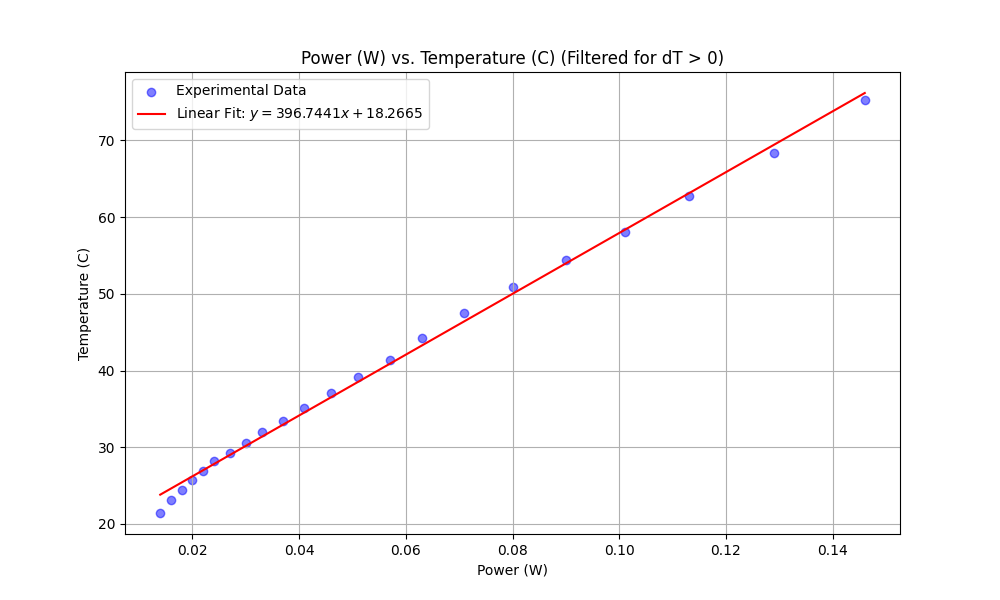
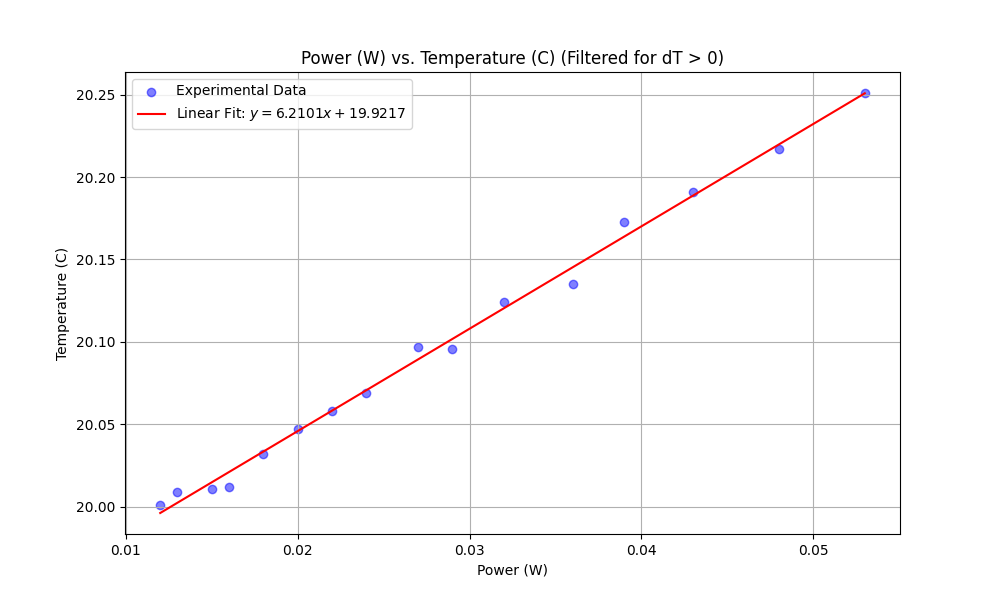
fahhhhhhhh

diff --git a/functions_test_alpha.py b/functions_test_alpha.py
@@ -30,14 +30,14 @@ def config_2wire_resistance_mode(instrument, vlimit):
     print("TSP: 2-Wire Source Configured.")
 
 def config_4wire_resistance_mode(instrument, vlimit):
-    """Sets up 4-wire sense for current sourcing."""
-    # Set to Current Source
+    instrument.write("reset()")
     instrument.write("smu.source.func = smu.FUNC_DC_CURRENT")
-    # Set to 4-Wire Sense
-    instrument.write("smu.measure.sense = smu.SENSE_4WIRE")
-    # Set Current Limit (Compliance)
     instrument.write(f"smu.source.vlimit.level = {vlimit}")
-    print("TSP: 4-Wire Source Configured.")
+    instrument.write("smu.measure.func = smu.FUNC_DC_VOLTAGE")
+    instrument.write("smu.measure.sense = smu.SENSE_4WIRE")
+    instrument.write("smu.measure.autorange = smu.ON")
+    instrument.write("smu.measure.nplc = 1")
+    instrument.write("smu.source.delay = 0.1")
 
 def get_TCR(thickness):
     """Finds TCR based on thin film thickness in nm"""
@@ -85,11 +85,6 @@ def measure_resistance_4wire(instrument, current_level):
     
     # 2. Set measurement function to Voltage
     instrument.write("smu.measure.func = smu.FUNC_DC_VOLTAGE")
-
-    # --- NEW: Enable 4-Wire (Remote) Sensing ---
-    # This tells the SMU to use the 'Sense' terminals instead of the 'Input' terminals
-    instrument.write("smu.measure.sense = smu.SENSE_REMOTE")
-    # -------------------------------------------
     
     # 3. Turn on the output
     instrument.write("smu.source.output = smu.ON")

diff --git a/misc_testing.py b/misc_testing.py
@@ -1,8 +1,9 @@
-import functions_test_alpha as f
+import functions_test as f
 import functions_analysis as g
 import sys
 import time
 import json
+import threading
 from pathlib import Path
 
 # Initialization Inputs
@@ -15,6 +16,16 @@ c_limit = 2 # Amps
 v_limit = 10 # Volts
 #f.get_TCR(film_thickness) # TCR in K^-1
 
+# Threading
+stop = False
+
+def wait_for_enter():
+    global stop
+    input("Press Enter to stop...\n")
+    stop = True
+
+# Start the input listener in a separate thread
+threading.Thread(target=wait_for_enter, daemon=True).start()
 
 # --- Setup Connection ---
 resource_id = 'USB0::0x05E6::0x2450::04419551::INSTR'
@@ -22,10 +33,21 @@ smu, rm = f.initialize_smu(resource_id)
 
 # Configure for Current Sourcing and 4-Wire Resistance
 # Note: Ensure your library has a function for smu.FUNC_DC_CURRENT
-f.config_2wire_resistance_mode(smu, v_limit) 
+f.config_4wire_resistance_mode(smu, v_limit) 
 
-r_chuck = f.measure_resistance_2wire(smu, 1e-2) 
+r_chuck = f.measure_resistance_4wire(smu, .005) 
 print(f"R_chuck: {r_chuck:.4f} Ω")
+
+r_list = []
+t_list = []
+
+start_time = time.time()
+
+while not stop:
+    elapsed = time.time() - start_time
+
+    r_list.append(f.measure_resistance_4wire(smu, 1))
+    t_list.append(elapsed)
 
 # Safety: Always turn off output and close connection
 smu.write("smu.source.output = smu.OFF")

diff --git a/functions_test.py b/functions_test.py
@@ -36,14 +36,14 @@ def config_2wire_resistance_mode(instrument, vlimit):
     print("TSP: 2-Wire Source Configured.")
 
 def config_4wire_resistance_mode(instrument, vlimit):
-    """Sets up 4-wire sense for current sourcing."""
-    # Set to Current Source
+    instrument.write("reset()")
     instrument.write("smu.source.func = smu.FUNC_DC_CURRENT")
-    # Set to 4-Wire Sense
-    instrument.write("smu.measure.sense = smu.SENSE_4WIRE")
-    # Set Current Limit (Compliance)
     instrument.write(f"smu.source.vlimit.level = {vlimit}")
-    print("TSP: 4-Wire Source Configured.")
+    instrument.write("smu.measure.func = smu.FUNC_DC_VOLTAGE")
+    instrument.write("smu.measure.sense = smu.SENSE_4WIRE")
+    instrument.write("smu.measure.autorange = smu.ON")
+    instrument.write("smu.measure.nplc = 1")
+    instrument.write("smu.source.delay = 0.1")
 
 def get_TCR(thickness):
     """Finds TCR based on thin film thickness in nm"""
@@ -94,7 +94,6 @@ def measure_resistance_4wire(instrument, current_level):
 
     # --- NEW: Enable 4-Wire (Remote) Sensing ---
     # This tells the SMU to use the 'Sense' terminals instead of the 'Input' terminals
-    instrument.write("smu.measure.sense = smu.SENSE_REMOTE")
     # -------------------------------------------
     
     # 3. Turn on the output

diff --git a/FULL_TEST.py b/FULL_TEST.py
@@ -15,19 +15,19 @@ import math
 # Initialization Inputs
 
 t_chuck = 20 # Chuck Temperature (°C)
-i_initial = .5e-2 # Initial Current I1 (Amps)
+i_initial = 5e-2 # Initial Current I1 (Amps)
 f_current = 1.05 # Current Multiplier
 film_thickness = 200 # Film thickness in nm
-tcr_ref = .0061
+tcr_ref = .0034
 i_limit = .1 # Amps
 v_limit = 20 # Volts
 initialization_time_delay = 2 # seconds
 convergence_time_delay = 3 # seconds
-mode = 2 # wire
+mode = 4 # wire
 #f.get_TCR(film_thickness) # TCR in K^-1
 
 # Temperature Staircase Inputs
-t_test = 140 # Test Temperature (°C)
+t_test = 200 # Test Temperature (°C)
 f_power = 2 # Convergence factor
 dt = 8 # Step Temperature (°C)
 B_E = 3 # Temperature error band (°C)
@@ -66,9 +66,9 @@ try:
     
     print("\nMeasuring baseline R_chuck...")
     if mode == 2:
-        r_chuck = f.measure_resistance_2wire(smu, 1e-3)
+        r_chuck = f.measure_resistance_2wire(smu, i_initial)
     else:
-        r_chuck = f.measure_resistance_4wire(smu, 1e-3)
+        r_chuck = f.measure_resistance_4wire(smu, i_initial)
 
     print(f"R_chuck: {r_chuck:.4f} Ω")
 
@@ -304,7 +304,6 @@ try:
 
     # Print number of iterations
     print("Number of iterations was", n)
-
 
 
 finally:
